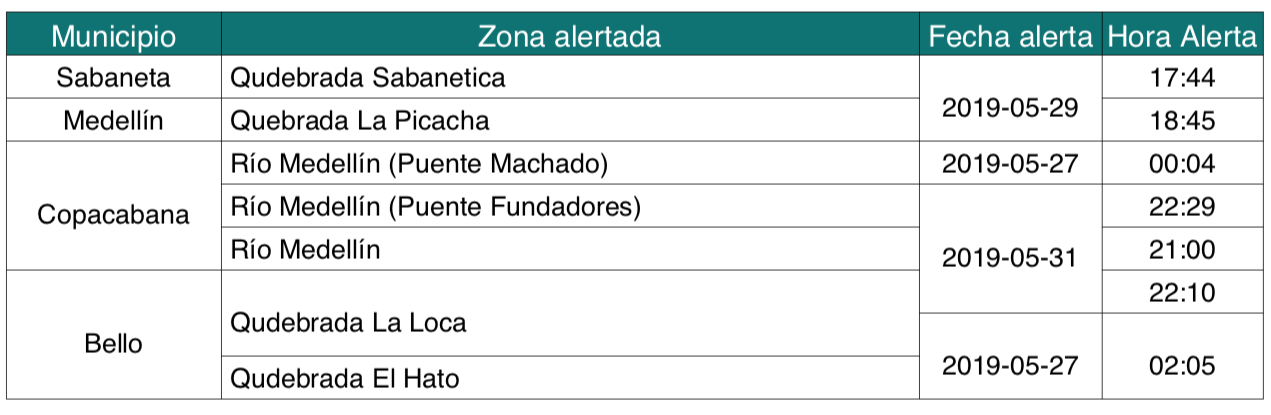
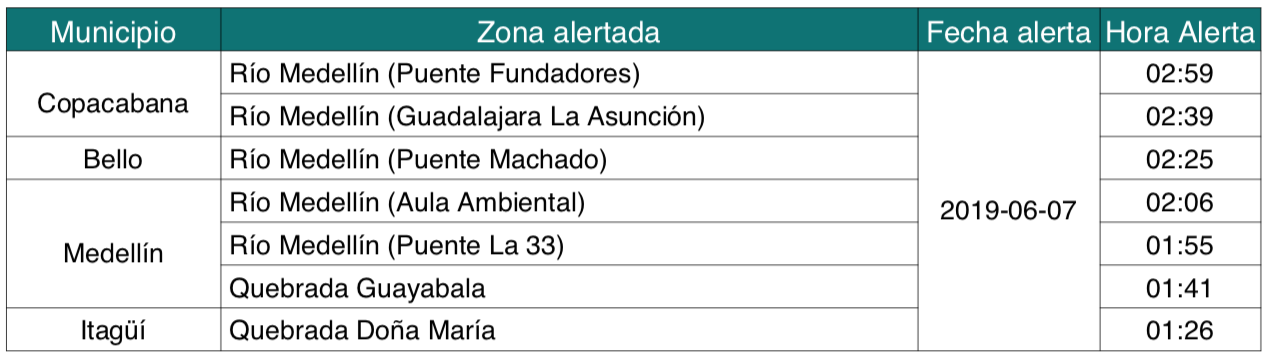
Week June 3rd to 9th. And automate convert of 123 map and descriptive texts

Changed region(s): [[0.0, 0.0, 1.0, 0.9832], [0.0616, 0.7989, 0.1232, 0.8603]]

diff --git a/Informe/TablaInforme.py b/Informe/TablaInforme.py
@@ -69,42 +69,27 @@ JuanMarica.setPageSize((sizex, sizey))
 
 JuanMarica.setFont("Avenir", 24)
 
-# # week  May 6th to 12th
+
+# # week  May 27th to June 2nd
 # data = [['Municipio',     'Zona alertada'                                       ,'Fecha alerta','Hora Alerta'],
-# 	    [u'Medellín',     u'Columna de humo en San Pablo (Belén)'               ,'2019-05-07'  , '10:47'     ],
-# 	    [u'La Estrella',  u'Quebrada La Raya'                                   ,'2019-05-08'  , '10:12'     ],
-# 	    [u'Girardota',    u'Quebrada El Salado'                                 ,'2019-05-11'  , '14:25'     ],
-# 	   ]
-# # week  May 13th to 19th
-# data = [['Municipio',     'Zona alertada'                                       ,'Fecha alerta','Hora Alerta'],
-#         [u'Medellín',     u'Quebrada el Chocho'                                 ,'2019-05-16'  , '15:46'     ],
-#         [u'Medellín',     u'Río Medellín (Puente de la 33)'                     ,'2019-05-16'  , '15:11'     ],
-#         [u'Copacabana',   u'Río Medellín (Puente Fundadores)'                   ,'2019-05-16'  , '16:46'     ],
-#         [u'Bello',        u'Río Medellín (Puente Machado)'                      ,'2019-05-16'  , '17:28'     ],
-#         [u'Bello',        u'Qudebrada El Hato'                                  ,'2019-05-18'  , '02:38'     ],
-#         [u'Barbosa',      u'Acumulados mayores a 45 mm'                         ,'2019-05-13'  , '20:41'     ],
+#         [u'Sabaneta',     u'Qudebrada Sabanetica'                               ,'2019-05-29'  , '17:44'     ],
+#         [u'Medellín',     u'Quebrada La Picacha'                                ,'2019-05-29'  , '18:45'     ],
+#         [u'Copacabana',   u'Río Medellín (Puente Machado)'                      ,'2019-05-27'  , '00:04'     ],
+#         [u'Copacabana',   u'Río Medellín (Puente Fundadores)'                   ,'2019-05-31'  , '22:29'     ],
+#         [u'Copacabana',   u'Río Medellín '                                      ,'2019-05-31'  , '21:00'     ],
+#         [u'Bello',        u'Qudebrada La Loca'                                  ,'2019-05-31'  , '22:10'     ],
+#         [u'Bello',        u'Qudebrada La Loca'                                  ,'2019-05-27'  , '02:05'     ],
+#         [u'Bello',        u'Qudebrada El Hato'                                  ,'2019-05-27'  , '02:05'     ],
 #        ]
-# # week  May 20th to 26th
-# data = [['Municipio',     'Zona alertada'                                       ,'Fecha alerta','Hora Alerta'],
-#         [u'Medellín',     u'Quebrada La Rosa'                                   ,'2019-05-23'  , '13:05'     ],
-#         [u'Medellín',     u'Quebrada La Guayabala'                              ,'2019-05-26'  , '21:52'     ],
-#         [u'Medellín',     u'Quebrada El Chocho'                                 ,'2019-05-26'  , '22:01'     ],
-#         [u'Medellín',     u'Río Medellín (Puente de la Augacatala)'             ,'2019-05-22'  , '13:58'     ],
-#         [u'Medellín',     u'Río Medellín (Puente de la 33)'                     ,'2019-05-22'  , '14:08'     ],
-#         [u'Copacabana',   u'Río Medellín (Puente Fundadores)'                   ,'2019-05-24'  , '20:22'     ],
-#         [u'Bello',        u'Qudebrada La Loca'                                  ,'2019-05-24'  , '19:57'     ],
-#         [u'Caldas',       u'Quebrada La Corrala'                                ,'2019-05-25'  , '11:38'     ],
-#        ]
-# week  May 27th to June 3st
+# week to June 3rd to 9th
 data = [['Municipio',     'Zona alertada'                                       ,'Fecha alerta','Hora Alerta'],
-        [u'Sabaneta',     u'Qudebrada Sabanetica'                               ,'2019-05-29'  , '17:44'     ],
-        [u'Medellín',     u'Quebrada La Picacha'                                ,'2019-05-29'  , '18:45'     ],
-        [u'Copacabana',   u'Río Medellín (Puente Machado)'                      ,'2019-05-27'  , '00:04'     ],
-        [u'Copacabana',   u'Río Medellín (Puente Fundadores)'                   ,'2019-05-31'  , '22:29'     ],
-        [u'Copacabana',   u'Río Medellín '                                      ,'2019-05-31'  , '21:00'     ],
-        [u'Bello',        u'Qudebrada La Loca'                                  ,'2019-05-31'  , '22:10'     ],
-        [u'Bello',        u'Qudebrada La Loca'                                  ,'2019-05-27'  , '02:05'     ],
-        [u'Bello',        u'Qudebrada El Hato'                                  ,'2019-05-27'  , '02:05'     ],
+        [u'Copacabana',   u'Río Medellín (Puente Fundadores)'                   ,'2019-06-07'  , '02:59'     ],
+        [u'Copacabana',   u'Río Medellín (Guadalajara La Asunción)'             ,'2019-06-07'  , '02:39'     ],
+        [u'Bello',        u'Río Medellín (Puente Machado)'                      ,'2019-06-07'  , '02:25'     ],
+        [u'Medellín',     u'Río Medellín (Aula Ambiental)'                      ,'2019-06-07'  , '02:06'     ],
+        [u'Medellín',     u'Río Medellín (Puente La 33)'                        ,'2019-06-07'  , '01:55'     ],
+        [u'Medellín',     u'Quebrada Guayabala'                                 ,'2019-06-07'  , '01:41'     ],
+        [u'Itagüí',       u'Quebrada Doña María'                                ,'2019-06-07'  , '01:26'     ],
        ]
 
 
@@ -124,23 +109,19 @@ t.setStyle(TableStyle([('INNERGRID', (0,0), (-1,-1), 0.25, colors.black),\
                        ('FONTSIZE', (0, 1), (-1, -1), 18),\
                        ('TEXTCOLOR',(0, 0),(-1,0),colors.white),\
                        # # # Municipio
-                       ('SPAN',   (0,3), (0,5)),\
-                       ('VALIGN', (0,3), (0,5),'MIDDLE'),\
-                       ('SPAN',   (0,6), (0,8)),\
-                       ('VALIGN', (0,6), (0,8),'MIDDLE'),\
+                       ('SPAN',   (0,1), (0,2)),\
+                       ('VALIGN', (0,1), (0,2),'MIDDLE'),\
+                       ('SPAN',   (0,4), (0,6)),\
+                       ('VALIGN', (0,4), (0,6),'MIDDLE'),\
                        # # # zona
-                       ('SPAN',   (1,6), (1,7)),\
-                       ('VALIGN', (1,6), (1,7),'MIDDLE'),\
+                       # ('SPAN',   (1,6), (1,7)),\
+                       # ('VALIGN', (1,6), (1,7),'MIDDLE'),\
                        # # # # # fecha
-                       ('SPAN',   (2,1), (2,2)),\
-                       ('VALIGN', (2,1), (2,2),'MIDDLE'),\
-                       ('SPAN',   (2,4), (2,6)),\
-                       ('VALIGN', (2,4), (2,6),'MIDDLE'),\
-                       ('SPAN',   (2,7), (2,8)),\
-                       ('VALIGN', (2,7), (2,8),'MIDDLE'),\
+                       ('SPAN',   (2,1), (2,7)),\
+                       ('VALIGN', (2,1), (2,7),'MIDDLE'),\
                        # # # hora
-                       ('SPAN',   (3,7), (3,8)),\
-                       ('VALIGN', (3,7), (3,8),'MIDDLE'),\
+                       # ('SPAN',   (3,7), (3,8)),\
+                       # ('VALIGN', (3,7), (3,8),'MIDDLE'),\
                         ]))
 
 

diff --git a/Informe/Mapa123.py b/Informe/Mapa123.py
@@ -13,6 +13,7 @@ import pandas as pd
 import numpy as np
 import datetime as dt
 import os
+import sys
 # from datetime import datetime, timedelta
 import matplotlib.pyplot as plt
 import matplotlib.gridspec as gridspec
@@ -562,8 +563,15 @@ CAL.drawOn(JuanMariposo,  775.,  350.)
 
 JuanMariposo.save()
 
+lastday = dt.datetime(2019,6,3) #monday
+startday = lastday-dt.timedelta(days=7)
+endday   = lastday-dt.timedelta(days=1)
 
-os.system('scp '+Path_figures+'JuanMariposo.pdf ccuervo@192.168.1.74:/var/www/cmcuervol/')
+Path_informe = '/home/atlas/informe_hidromet/'+startday.strftime('%Y%m%d')+'_'+endday.strftime('%Y%m%d')+'/Mensual/'
+
+os.system('convert -verbose -density 150 -trim '+Path_figures+'JuanMariposo.pdf -quality 100 -flatten -sharpen 0x1.0 '+Path_figures+'JuanMariposo.png')
+os.system('convert -verbose -density 150 -trim -transparent white '+Path_figures+'JuanMariposo.png -quality 100 '+Path_informe+'123.png')
+os.system('scp '+Path_figures+'JuanMariposo.* ccuervo@192.168.1.74:/var/www/cmcuervol/')
 
 
 TextoLlamados = "Durante el mes se realizaron 25 llamados a las líneas de emergencia \
@@ -581,6 +589,16 @@ TextoTorta = "La gráfica de torta muestra un resumen de los acumulados máximos
               que durante mayo predominaron eventos con altas intesidades y/o largas \
               duraciones, porque mayo es el último mes de esta temporada húmeda."
 
+y = []
+y.append(unicode(TextoLlamados.replace('                 ',''),'utf-8'))
+y.append('<br/>')
+y.append(unicode(TextoTorta.replace('              ',''),'utf-8'))
 
+reload(sys)
+sys.setdefaultencoding('utf8')
+c = open (Path_informe+'Torta_y_alertas.txt', 'w')
+# np.savetxt(metaruta+informe+'/Textos.txt', y, fmt='%s')
+c.writelines( "%s\n" % str(item) for item in y )
+c.close()
 
 print 'Hello world'
